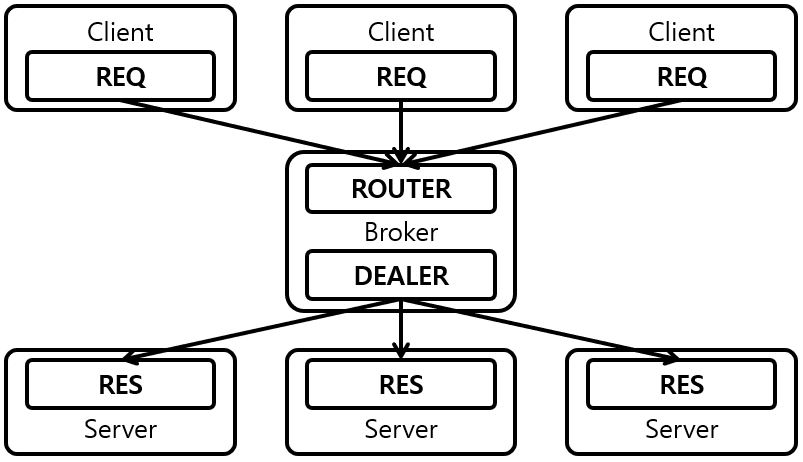
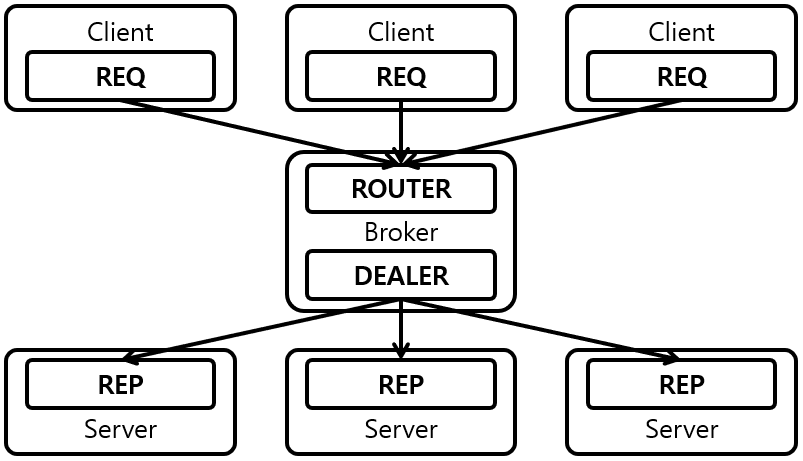
Update

diff --git a/_docs/theory_analysis/ZeroMQ.md b/_docs/theory_analysis/ZeroMQ.md
@@ -9,41 +9,39 @@ adsense: true
 
 ### 1. ZeroMQ
 
+ZeroMQ는 분산, 병렬 System을 Target으로한 High-performance Async Messaging Library이다. 기초가 된는 Message Pattern을 정의하고 정의한 Message Pattern을 쉽게 구현할 수 있도록 도와준다. 다양한 언어를 지원한다는 장점도 갖고 있다.
+
 #### 1.1. Messaging Pattern
+
+ZeroMQ에서는 Request-reply, Pub-sub, Pipeline, Exclusive pair 4가지 Message Pattern을 정의하고 있다.
 
 ##### 1.1.1. Request-reply
 
 ![[그림 1] Request-reply Sync]({{site.baseurl}}/images/theory_analysis/ZeroMQ/Request-reply_Sync.PNG){: width="150px"}
 
+Request-reply Pattern은 Client의 Request를 Server가 Reply하는 일반적인 Pattern을 의미한다. Sync방식 Async방식 둘다 ZeroMQ로 구현할 수 있다. [그림 1]은 Sync 방식의 Request-reply Pattern을 나타내고 있다. Client에서는 REQ Type Socket을 이용하여 Message를 Server에게 전송한다. Server에서는 REP Type Socket을 이용하여 수신한 Message를 Client에게 다시 전송한다.
+
 ![[그림 2] Request-reply Async]({{site.baseurl}}/images/theory_analysis/ZeroMQ/Request-reply_Async.PNG){: width="500px"}
+
+[그림 2]는 Async 방식의 Request-reply Pattern을 나타내고 있다. Server-Client 사이의 Broker가 존재한다. Broker의 ROUTER Type Socket은 Client의 REQ Type Socket으로 부터 Server 대신 Message를 전달 받는다. Message를 받은 Broker는 DEALER Type Socket을 통해서 Server의 REP Type Socket으로 Message를 전송한다.
 
 ##### 1.1.2. Pub-sub
 
 ![[그림 3] Pub-sub]({{site.baseurl}}/images/theory_analysis/ZeroMQ/Pub-sub.PNG){: width="500px"}
 
+Pub-sub Pattern은 Publisher가 모든 Subscriber에게 동일한 Message를 전달하는 Pattern이다. [그림 3]은 Pub-sub Pattern을 나타내고 있다. Publisher는 PUB Type Socket을 이용하여 모든 Subscriber에게 Message를 전송한다. Subscriber는 SUB Type Socket을 이용하여 Message를 수신한다. Pub-sub은 Async 방식으로 동작한다.
+
 ##### 1.1.3. Pipeline
 
 ![[그림 4] Push-pull]({{site.baseurl}}/images/theory_analysis/ZeroMQ/Push-pull.PNG){: width="500px"}
+
+Pipeline Pattern은 Message를 분산하여 처리하고, 처리된 Message를 다시 모으는 병렬처리 Pattern이다. [그림 4]는 Pipeline Pattern을 나타내고 있다. Ventilator의 Push Type Socket으로 전송된 Message는 Worker의 Pull Type Socket에게 균일하게 분산된다. 반대로 Worker의 Push Type Socket으로 전송된 Message는 Sink의 Pull Type Socket으로 모인다.
 
 ##### 1.1.4. Exclusive pair
 
 ![[그림 5] Exclusive pair]({{site.baseurl}}/images/theory_analysis/ZeroMQ/Exclusive_pair.PNG){: width="150px"}
 
-#### 1.2. Reliability
-
-##### 1.2.1. Client-side Reliability : Lazy Pirate Pattern
-
-##### 1.2.2. Basic Reliable Queuing : Simple Pirate Pattern
-
-##### 1.2.3. Robust Reliable Queuing : Paranoid Pirate Pattern
-
-##### 1.2.4. Service-Oriented Reliable Queuing : Majordomo Pattern
-
-##### 1.2.5. Disconnected Reliability : Titanic Pattern
-
-##### 1.2.6. High-Availability Pair : Binary Star Pattern
-
-##### 1.2.7. Brokerless Reliability : Freelance Pattern
+Exclusive pair Pattern은 하나의 Process에서 2개의 Thread 사이의 Message를 주고 받을때 이용하는 Pattern이다. [그림 5]는 3개의 Thread 사이에서의 Exclusive pair Pattern을 나타내고 있다. PAIR Type Socket만 이용된다.
 
 ### 2. 참고
 
